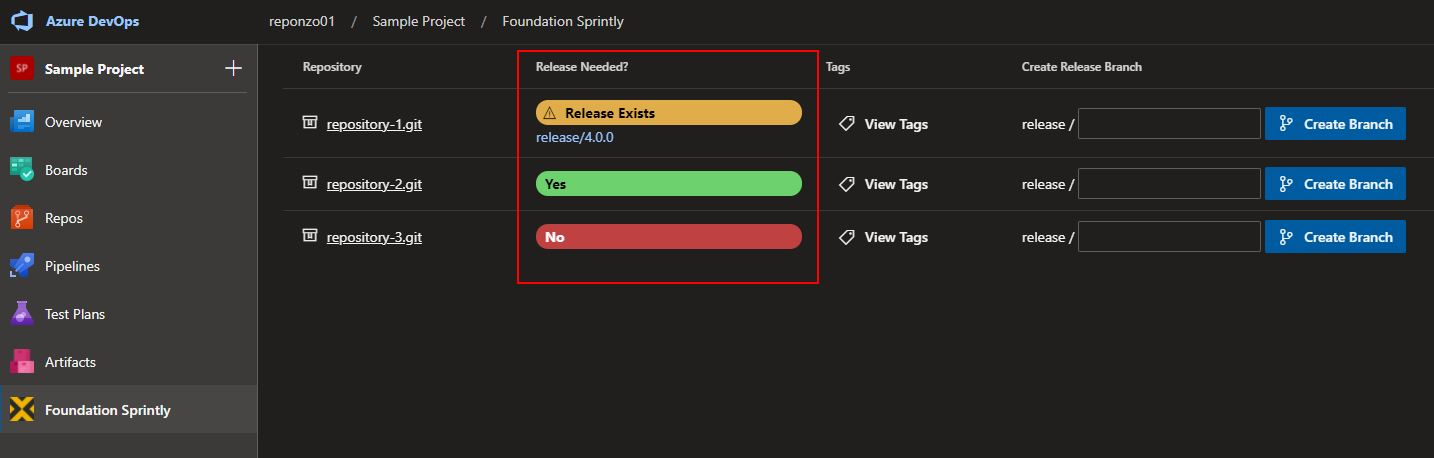
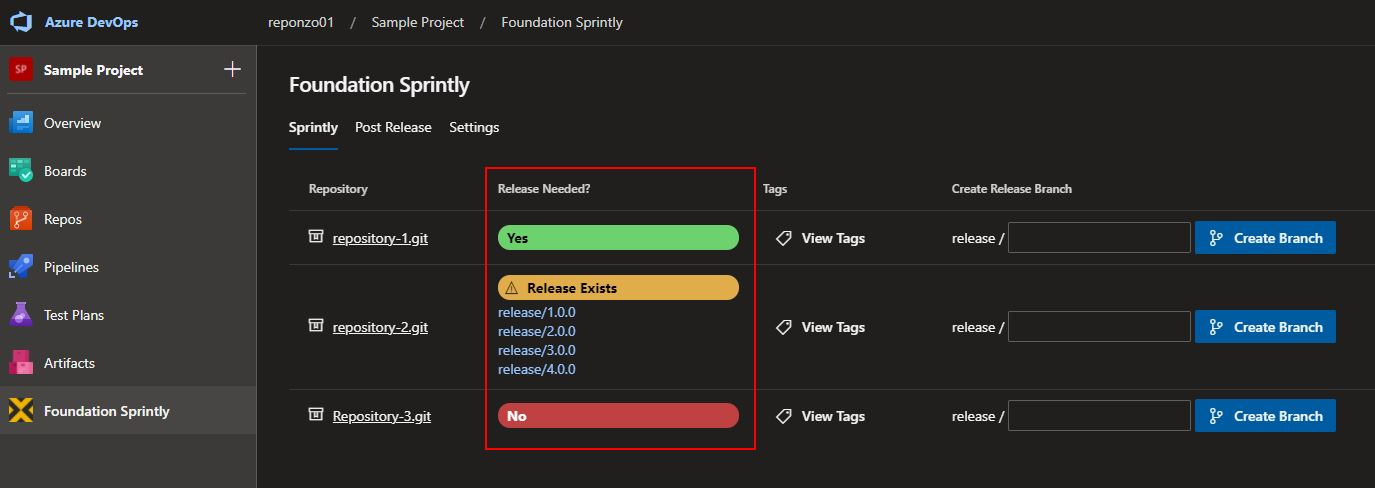
update README

diff --git a/README.md b/README.md
@@ -6,43 +6,68 @@ This extension allows for repositories to be listed on a single page and for rel
 
 Functionality includes:
 
-- List and link to repositories.
-- Indicate whether a repository has a release branch.
-- Indicate if the repository has code changes in the `develop` branch that are ahead of `master` or `main`.
-- View the tags of the repository.
-- Create a `release` branch off of `develop`.
+-   List and link to repositories.
+-   Indicate whether a repository has a release branch.
+-   Indicate if the repository has code changes in the `develop` branch that are ahead of `master` or `main`.
+-   View the tags of the repository.
+-   Create a `release` branch off of `develop`.
 
-## Screenshots
+After installing the extension, it can be found in the main hub group in the project.
 
-(NOTE: Right-click the image and Open In A New Tab if the image is too small to see.)
-1. After installing the extension, it can be found in the main hub group in the project.
+![Extension Location](static/ExtensionLocation.jpg)
 
-    ![Extension Location](static/ExtensionLocation.jpg)
+# Tabs
 
-2. Each repository is listed and one of three indicators are shown:
-- If a `release` branch exists, a yellow indicator will be shown with a link to the `release` branch.
-- If the repository has code changes in the `develop` branch that is ahead of `master` or `main`, a green indicator will be shown.
-- If there are no code changes between `develop` and `master` or `main`, a red indicator will be shown.
-- A repository will not be shown if it is missing a `develop` branch or one of either `master` or `main`.
+_(NOTE: Right-click the image and Open In A New Tab if the image is too small to see.)_
 
-    ![Extension Main Page](static/ExtensionMainPage.jpg)
+This extension contains several tabs the offer different functionality. Each tab will be explained here.
 
-3. The repository's tags can be viewed by clicking on the corresponding `View Tags` button.
+![Extension Tabs](static/ExtensionTabs.jpg)
 
-    ![Extension Tags](static/ExtensionTags.jpg)
+## Settings
 
-4. A `release` branch can be created right from this page by entering in a branch name and clicking on `Create Branch`. This will create a `release` branch off of the latest commit on `develop`.
+By default, the Azure groups `Dev Team Leads` and `DevOps` have access to this extension. The dropdowns in this tab can be used to give access to more groups or individuals. If a particular user is part of a group that has access to this extension, that user will have access even if their individual name is not checked in the `Users` dropdown.
 
-    ![Extension Create Branch](static/ExtensionCreateBranch.jpg)
+![Extension Tabs Settings Overview](static/ExtensionTabsSettingsOverview.jpg)
 
-5. Once the branch is successfully created, a toast message will indicate its success.
+The `Repositories` dropdown is a user-level setting. This controls what repositories are shown on the main tab. Each user can set their own list.
 
-    ![Extension Branch Created](static/ExtensionBranchCreated.jpg)
+![Extension Tabs Settings Repositories](static/ExtensionTabsSettingsRepositories.jpg)
 
-6. You can verify the creation of the branch by going to the `Branches` page and seeing that the `release` branch was created with the same commit as `develop` assuming no other commits have been merged to `develop` since the time that the `release` branch was created.
+After making selections, click `Save` to save your settings. A toast notification will alert you that settings were saved successfully.
 
-    ![Extension Branches Verification](static/ExtensionBranchesVerification.jpg)
+![Extension Tabs Settings Save](static/ExtensionTabsSettingsSave.jpg)
+
+## Main Tab
+
+Each repository is listed and one of three indicators are shown:
+
+-   If a `release` branch exists, a yellow indicator will be shown with a link to the `release` branch.
+-   If the repository has code changes in the `develop` branch that is ahead of `master` or `main`, a green indicator will be shown.
+-   If there are no code changes between `develop` and `master` or `main`, a red indicator will be shown.
+-   A repository will not be shown if it is missing a `develop` branch or one of either `master` or `main`.
+-   If more than one `release` branch exists, they will all be displayed.
+
+![Extension Main Page](static/ExtensionMainPage.jpg)
+
+The repository's tags can be viewed by clicking on the corresponding `View Tags` button.
+
+![Extension Tags](static/ExtensionTags.jpg)
+
+A `release` branch can be created right from this page by entering in a branch name and clicking on `Create Branch`. This will create a `release` branch off of the latest commit on `develop`.
+
+![Extension Create Branch](static/ExtensionCreateBranch.jpg)
+
+Once the branch is successfully created, a toast message will indicate its success.
+
+![Extension Branch Created](static/ExtensionBranchCreated.jpg)
+
+You can verify the creation of the branch by going to the `Branches` page and seeing that the `release` branch was created with the same commit as `develop` assuming no other commits have been merged to `develop` since the time that the `release` branch was created.
+
+![Extension Branches Verification](static/ExtensionBranchesVerification.jpg)
 
 ## Page Reloads
 
-At the time of this version, page updates do not happen automatically. To see the latest statuses, refresh the extension page.
+At the time of this version, page updates do not happen automatically. To see the latest statuses, refresh the extension page using the `Refresh` button on the top right corner.
+
+![Extension Refresh](static/ExtensionRefresh.jpg)
